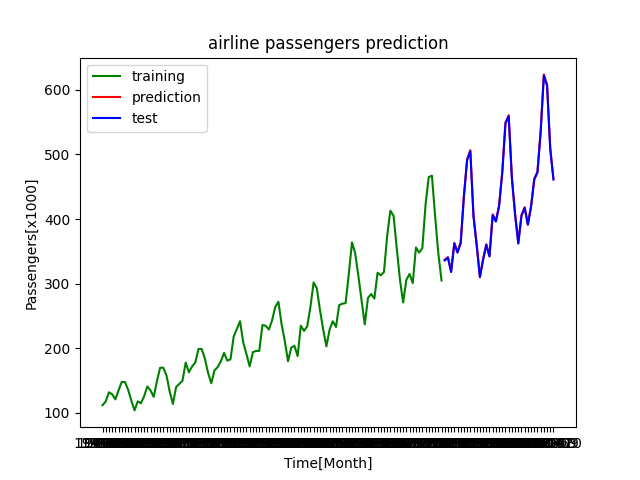
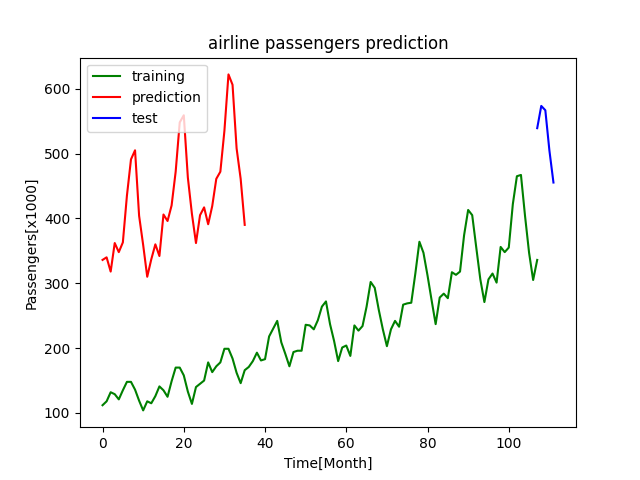
refactor airline_passengers_forecasting_pytorch to use real time series

diff --git a/TimeSeriesPrediction/2_UnivariantTimeSeriesForecast/AirlinePassengers/Pytorch/airline_passengers_forecasting_pytorch.py b/TimeSeriesPrediction/2_UnivariantTimeSeriesForecast/AirlinePassengers/Pytorch/airline_passengers_forecasting_pytorch.py
@@ -1,53 +1,60 @@
 import torch
 import torch.nn as nn
 import pandas as pd
+import numpy as np
 import matplotlib.pyplot as plt
-from torch.utils.data import DataLoader, Dataset
+from torch.utils.data import DataLoader, TensorDataset
+from sklearn.preprocessing import MinMaxScaler
 
 
 class AirlinePassengersPreparer:
     def __init__(self):
         self.data = pd.read_csv("../AirlinePassengers.csv", sep=";")
-        self.month = self.data.loc[:, "Month"]
-        self.passengers = self.data.loc[:, "Passengers"]
-        self.passengers_plus_1 = None
+        self.threshold = 107
 
-    def create_forecast_sequence(self):
-        self.passengers_plus_1 = self.passengers.shift(-1)
-        self.passengers_plus_1 = self.passengers_plus_1.iloc[:-1]
-        self.data["Passengers+1"] = self.passengers_plus_1
-        self.passengers = self.passengers.iloc[:-1]
+    def get_train_data(self):
+        data = self.data.loc[0:self.threshold, "Passengers"].reset_index(drop=True)
+        return pd.DataFrame(data)
 
-    def get_train_test(self):
-        train = self.data[0:107]
-        test = self.data[107:142]
-        return train, test
+    def get_test_data(self):
+        data = self.data.loc[self.threshold:142, "Passengers"].reset_index(drop=True)
+        return pd.DataFrame(data)
 
 
-class AirlinePassengersDataset(Dataset):
-    def __init__(self, passengers, passengers_plus_1):
-        self.passengers = torch.from_numpy(passengers.astype("float32"))
-        self.passengers_plus_1 = torch.from_numpy(passengers_plus_1.astype("float32"))
+airline_passengers = AirlinePassengersPreparer()
+scaler = MinMaxScaler(feature_range=(0, 1))
+train = scaler.fit_transform(airline_passengers.get_train_data())
+test = scaler.fit_transform(airline_passengers.get_test_data())
 
-    def __len__(self):
-        return len(self.passengers)
 
-    def __getitem__(self, index):
-        return self.passengers[index], self.passengers_plus_1[index]
+def create_timeseries(data, previous=1):
+    inputs, targets = list(), list()
+    for i in range(len(data)-previous-1):
+        a = data[i: (i+previous), 0]
+        inputs.append(a)
+        targets.append([data[i + previous, 0]])
+    return torch.tensor(inputs, dtype=torch.float), torch.tensor(targets, dtype=torch.float)
+
+
+lookback = 30
+train_inputs, train_targets = create_timeseries(train, lookback)
+test_inputs, test_targets = create_timeseries(test, lookback)
+
+train_loader = DataLoader(dataset=TensorDataset(train_inputs, train_targets), batch_size=1, shuffle=False)
+test_loader = DataLoader(dataset=TensorDataset(test_inputs, test_targets), batch_size=1, shuffle=False)
 
 
 class AirlinePassengersModel(nn.Module):
     def __init__(self):
         super().__init__()
-        self.linear1 = nn.Linear(1, 8)
-        self.activation = nn.ReLU()
-        self.linear2 = nn.Linear(8, 1)
+        #self.lstm = nn.LSTM(input_size=1, hidden_size=50, num_layers=1)
+        self.linear1 = nn.Linear(30, 50)
+        self.linear2 = nn.Linear(50, 1)
         self.loss_function = nn.MSELoss()
-        self.optimizer_function = torch.optim.Adam(self.parameters(), lr=0.001)
+        self.optimizer_function = torch.optim.Adam(self.parameters(), lr=0.0001)
 
     def forward(self, inputs):
         inputs = self.linear1(inputs)
-        inputs = self.activation(inputs)
         inputs = self.linear2(inputs)
         return inputs
 
@@ -63,7 +70,8 @@ class AirlinePassengersModel(nn.Module):
             self.optimizer_function.zero_grad()
             cumulative_loss += loss.item()
 
-        print(f"Epoch [{epoch + 1}/{num_epochs}] | Train Loss: {cumulative_loss / len(train_loader):.4f}")
+        print(f"Epoch [{epoch + 1}/{num_epochs}]")
+        print(f"Train Loss: {cumulative_loss / len(train_loader):.4f}")
 
     def validate(self, val_loader):
         self.eval()
@@ -77,33 +85,25 @@ class AirlinePassengersModel(nn.Module):
         print(f'Validation Loss: {loss / len(val_loader):.4f}')
 
 
-timeseries = AirlinePassengersPreparer()
-timeseries.create_forecast_sequence()
-train, test = timeseries.get_train_test()
-
-train_dataset = AirlinePassengersDataset(train.loc[:, "Passengers"].to_numpy(), train.loc[:, "Passengers+1"].to_numpy())
-train_loader = DataLoader(dataset=train_dataset, batch_size=1, shuffle=False)
-
-test_dataset = AirlinePassengersDataset(test.loc[:, "Passengers"].to_numpy(), test.loc[:, "Passengers+1"].to_numpy())
-test_loader = DataLoader(dataset=test_dataset, batch_size=1, shuffle=False)
-
 model = AirlinePassengersModel()
-num_epochs = 25
+num_epochs = 50
 for epoch in range(num_epochs):
     model.backward(train_loader, epoch, num_epochs)
     model.validate(test_loader)
 
 predictions = []
-for element in test.loc[:, "Passengers"]:
-    prediction = model(torch.Tensor([element]))
+for element in test_inputs:
+    prediction = model(torch.Tensor(element))
     predictions.append(prediction.item())
-test["Predictions"] = predictions
+print(predictions)
 
-test.drop(["Passengers+1"], axis=1).to_csv("./AirlinePassengersResultsPytorch.csv")
+validation = pd.DataFrame()
+validation["Predictions"] = scaler.inverse_transform([predictions]).flatten()
+validation.index += airline_passengers.threshold
 
-plt.plot(train["Month"], train["Passengers"], color="green", label="training")
-plt.plot(test["Month"], test["Predictions"], color="red", label="prediction")
-plt.plot(test["Month"], test["Passengers"], color="blue", label="test")
+plt.plot(airline_passengers.get_train_data(), color="green", label="training")
+plt.plot(airline_passengers.get_test_data(), color="red", label="prediction")
+plt.plot(validation["Predictions"], color="blue", label="test")
 plt.title("airline passengers prediction")
 plt.xlabel("Time[Month]")
 plt.ylabel("Passengers[x1000]")
